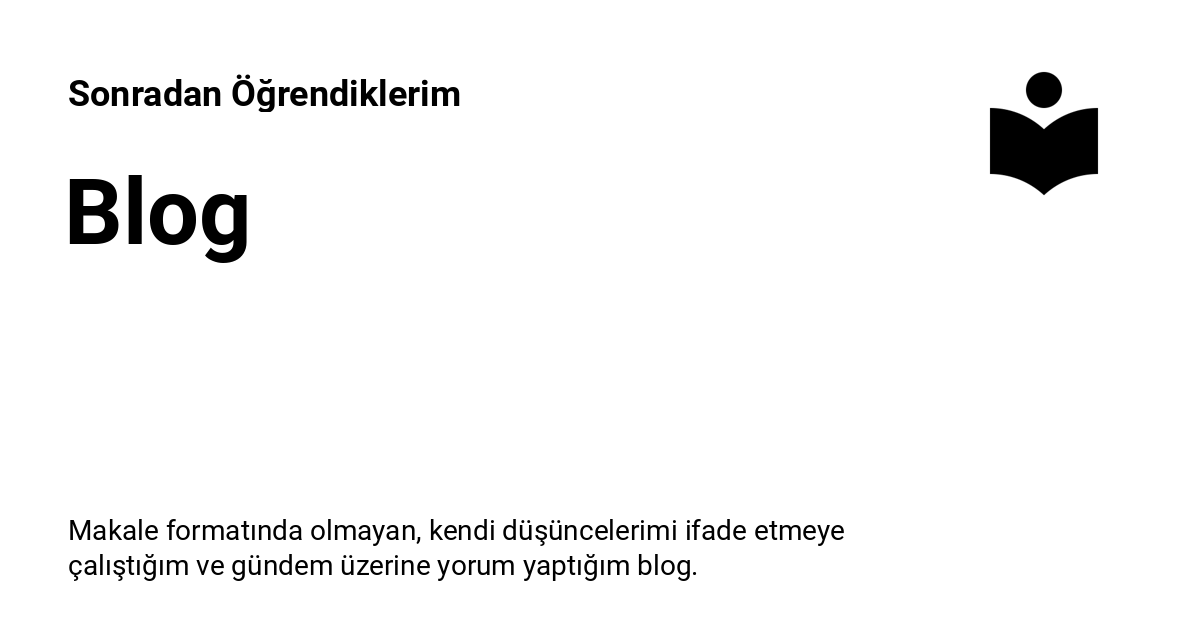
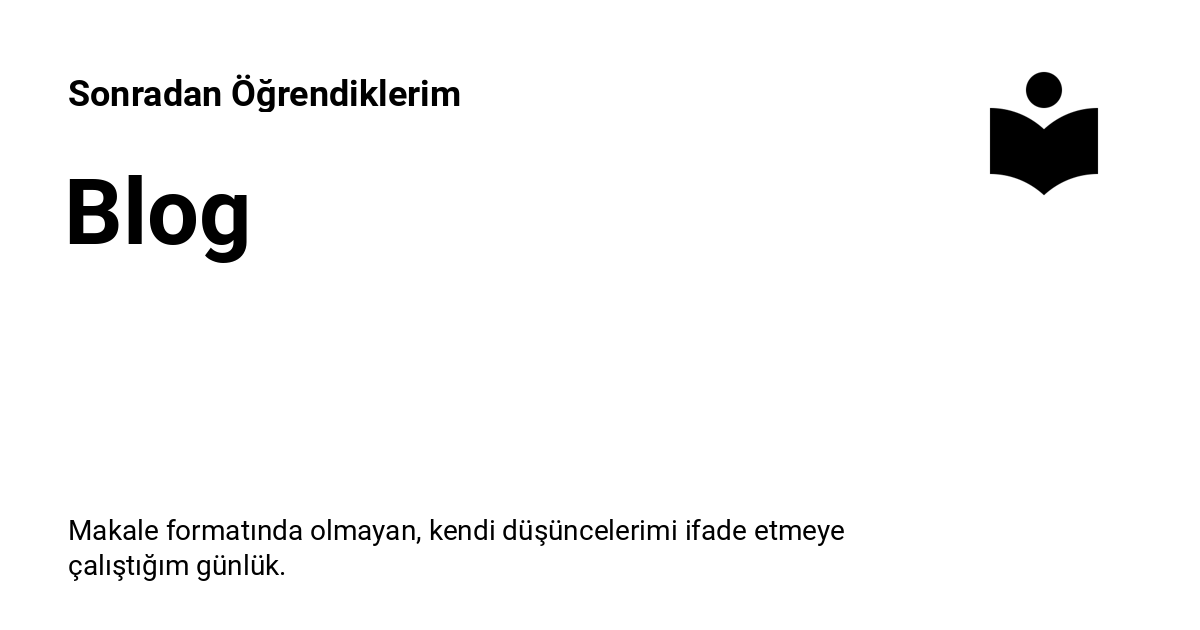
Deployed 1823ffa with MkDocs version: 1.5.3

Changed region(s): [[0.1542, 0.8746, 0.5858, 0.9349]]

diff --git a/blog/index.html b/blog/index.html
@@ -6,7 +6,7 @@
       <meta charset="utf-8">
       <meta name="viewport" content="width=device-width,initial-scale=1">
       
-        <meta name="description" content="Makale formatında olmayan, kendi düşüncelerimi ifade etmeye çalıştığım ve gündem üzerine yorum yaptığım blog.">
+        <meta name="description" content="Makale formatında olmayan, kendi düşüncelerimi ifade etmeye çalıştığım günlük.">
       
       
         <meta name="author" content="Eren Türkay">
@@ -73,7 +73,7 @@
       
         <meta  property="og:title"  content="Blog - Sonradan Öğrendiklerim" >
       
-        <meta  property="og:description"  content="Makale formatında olmayan, kendi düşüncelerimi ifade etmeye çalıştığım ve gündem üzerine yorum yaptığım blog." >
+        <meta  property="og:description"  content="Makale formatında olmayan, kendi düşüncelerimi ifade etmeye çalıştığım günlük." >
       
         <meta  property="og:image"  content="https://sonradanogrendiklerim.com/assets/images/social/blog/index.png" >
       
@@ -89,7 +89,7 @@
       
         <meta  name="twitter:title"  content="Blog - Sonradan Öğrendiklerim" >
       
-        <meta  name="twitter:description"  content="Makale formatında olmayan, kendi düşüncelerimi ifade etmeye çalıştığım ve gündem üzerine yorum yaptığım blog." >
+        <meta  name="twitter:description"  content="Makale formatında olmayan, kendi düşüncelerimi ifade etmeye çalıştığım günlük." >
       
         <meta  name="twitter:image"  content="https://sonradanogrendiklerim.com/assets/images/social/blog/index.png" >
       
